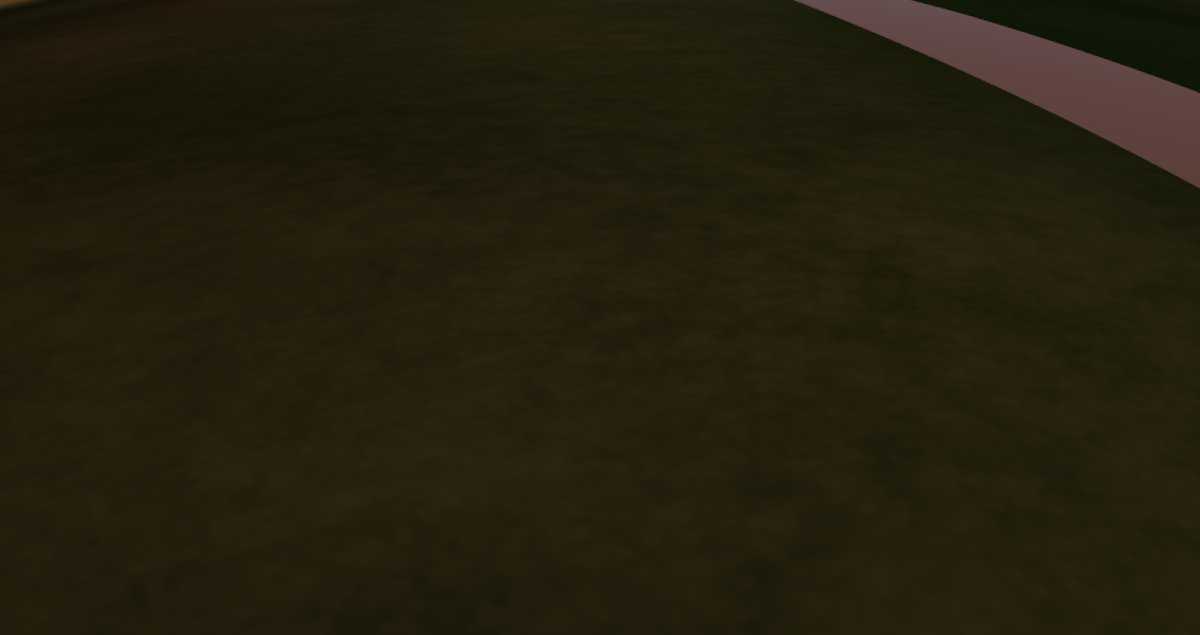
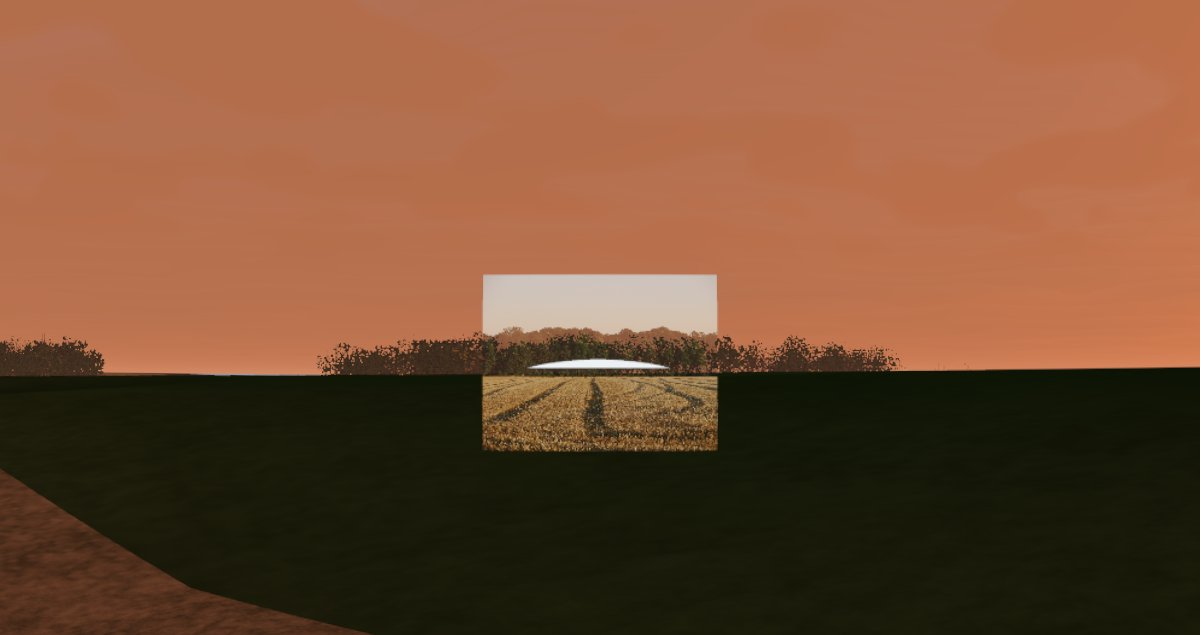
Maffliers share card: photographed at the phenomenon (summaryTime), and looked at again while the frame is still black

diff --git a/scripts/share-cards/ShareCards.ts b/scripts/share-cards/ShareCards.ts
@@ -36,6 +36,9 @@ class ShareCards {
   /** A frame needs the scene to be whole (the loader gone) and a moment for the last textures to be drawn. */
   static readonly SETTLE_MS = 2000
   static readonly TIMEOUT_MS = 120_000
+  /** What a JPEG of the card's size weighs under which it holds nothing but black (a real night scene weighs more), and how many more looks it is given. */
+  static readonly BLACK_FRAME_BYTES = 8 * 1024
+  static readonly BLACK_FRAME_RETRIES = 15
 
   private readonly root = path.join(path.dirname(fileURLToPath(import.meta.url)), "..", "..")
   private readonly demoData = path.join(this.root, "public", "demo-data")
@@ -126,7 +129,14 @@ class ShareCards {
         const box = (window as any).__stage.scene.shadowRoot.getElementById("frame").getBoundingClientRect()
         return { x: box.x, y: box.y, width: box.width, height: box.height }
       })
-      await page.screenshot({ path: file, type: "jpeg", quality: 85, clip: frame })
+      // A scene whose ground and scenery are asked for over the network is still black once its loader has gone for a first time (the loader is not
+      // shown before it starts waiting, and a hidden one says nothing): looked at again until there is a picture, a black frame being a few kilobytes.
+      let shot = await page.screenshot({ type: "jpeg", quality: 85, clip: frame })
+      for (let attempt = 0; shot.length < ShareCards.BLACK_FRAME_BYTES && attempt < ShareCards.BLACK_FRAME_RETRIES; attempt++) {
+        await page.waitForTimeout(ShareCards.SETTLE_MS)
+        shot = await page.screenshot({ type: "jpeg", quality: 85, clip: frame })
+      }
+      writeFileSync(file, shot)
     } finally {
       await page.close()
     }
